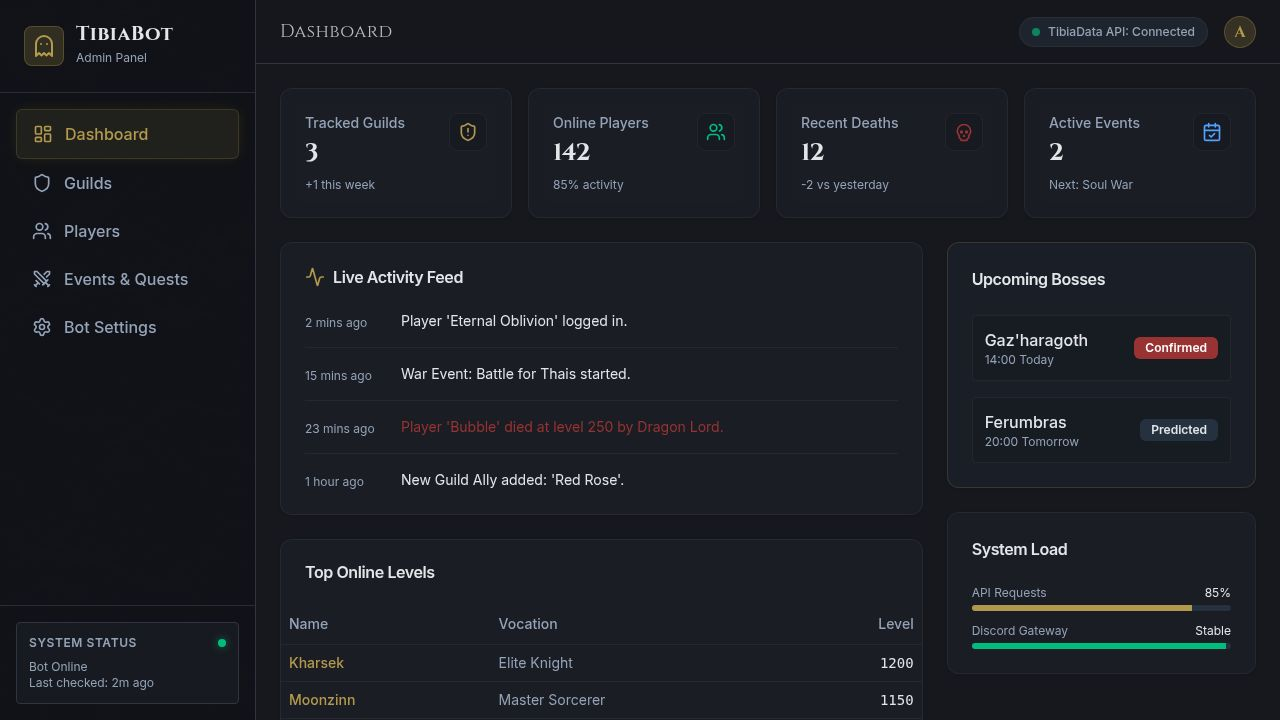
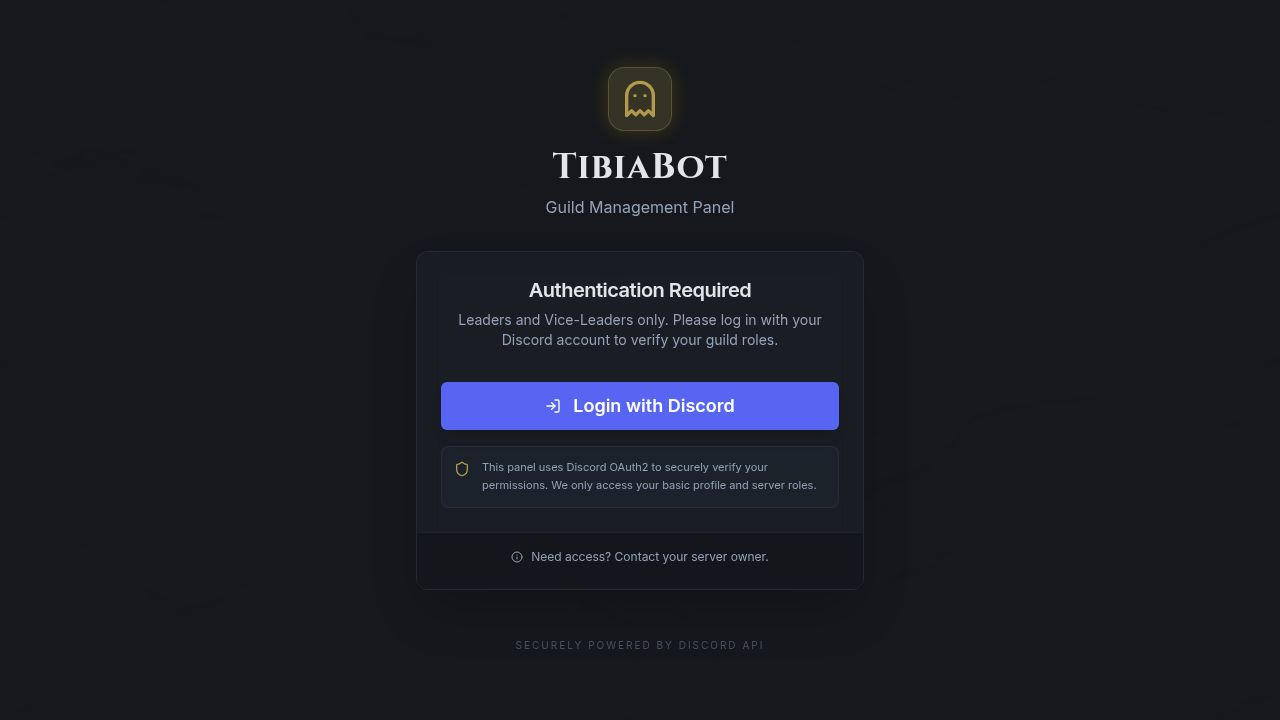
Add mock discord login functionality for testing authentication
Implements a mock Discord login flow by setting a localStorage item and adding a route guard in App.tsx. Includes a logout button in the Layout component to clear the mock session.

Replit-Commit-Author: Agent
Replit-Commit-Session-Id: 1aa856d8-c0d1-4534-a0c9-8280021b141d
Replit-Commit-Checkpoint-Type: full_checkpoint
Replit-Commit-Event-Id: a83f9ea4-6192-428e-b085-338bb3dd9e41
Replit-Commit-Screenshot-Url: https://storage.googleapis.com/screenshot-production-us-central1/3ba702f2-331a-44cc-a978-3828d1b81bd4/1aa856d8-c0d1-4534-a0c9-8280021b141d/aMTSR9W
Replit-Helium-Checkpoint-Created: true

diff --git a/client/src/components/Layout.tsx b/client/src/components/Layout.tsx
@@ -13,7 +13,8 @@ import {
   LayoutGrid,
   ShieldCheck,
   ShieldAlert,
-  BarChart3
+  BarChart3,
+  LogIn
 } from "lucide-react";
 import { Sheet, SheetContent } from "@/components/ui/sheet";
 import { Button } from "@/components/ui/button";
@@ -93,12 +94,25 @@ export function Layout({ children }: { children: React.ReactNode }) {
       </nav>
 
       <div className="p-4 border-t border-sidebar-border z-10">
-         <div className="flex items-center gap-3 mb-4 px-2">
-            <div className="h-8 w-8 rounded-full bg-primary flex items-center justify-center text-primary-foreground font-bold text-xs">A</div>
-            <div>
-                <div className="text-sm font-medium">Administrator</div>
-                <Badge variant="outline" className="text-[10px] h-4 border-primary/30 text-primary">Leader Role</Badge>
+         <div className="flex items-center justify-between mb-4 px-2">
+            <div className="flex items-center gap-3">
+                <div className="h-8 w-8 rounded-full bg-primary flex items-center justify-center text-primary-foreground font-bold text-xs">A</div>
+                <div>
+                    <div className="text-sm font-medium">Administrator</div>
+                    <Badge variant="outline" className="text-[10px] h-4 border-primary/30 text-primary">Leader Role</Badge>
+                </div>
             </div>
+            <Button 
+                variant="ghost" 
+                size="icon" 
+                className="h-8 w-8 text-muted-foreground hover:text-destructive"
+                onClick={() => {
+                    localStorage.removeItem("mock_auth");
+                    window.location.href = "/login";
+                }}
+            >
+                <LogIn className="h-4 w-4 rotate-180" />
+            </Button>
          </div>
         <div className="bg-card/50 p-3 rounded border border-border">
           <div className="flex items-center justify-between mb-2">

diff --git a/client/src/App.tsx b/client/src/App.tsx
@@ -1,4 +1,4 @@
-import { Switch, Route } from "wouter";
+import { Switch, Route, useLocation } from "wouter";
 import { queryClient } from "./lib/queryClient";
 import { QueryClientProvider } from "@tanstack/react-query";
 import { Toaster } from "@/components/ui/toaster";
@@ -16,12 +16,21 @@ import Templates from "@/pages/Templates";
 import Verification from "@/pages/Verification";
 import GuildStats from "@/pages/GuildStats";
 import Login from "@/pages/Login";
+import { useEffect } from "react";
 
 function Router() {
+  const [location, setLocation] = useLocation();
+  const isAuthenticated = localStorage.getItem("mock_auth") === "true";
+
+  useEffect(() => {
+    if (!isAuthenticated && location !== "/login") {
+      setLocation("/login");
+    }
+  }, [isAuthenticated, location, setLocation]);
+
   return (
     <Switch>
       <Route path="/login" component={Login} />
-      {/* Default to dashboard for mockup mode simplicity */}
       <Route path="/:rest*">
         <Layout>
           <Switch>

diff --git a/client/src/pages/Login.tsx b/client/src/pages/Login.tsx
@@ -5,7 +5,8 @@ import bgTexture from "@assets/generated_images/dark_stone_rpg_texture_backgroun
 
 export default function Login() {
   const handleDiscordLogin = () => {
-    // In a real app, this would redirect to Discord OAuth
+    // Mocking the login by setting a flag in localStorage
+    localStorage.setItem("mock_auth", "true");
     window.location.href = "/";
   };
 
